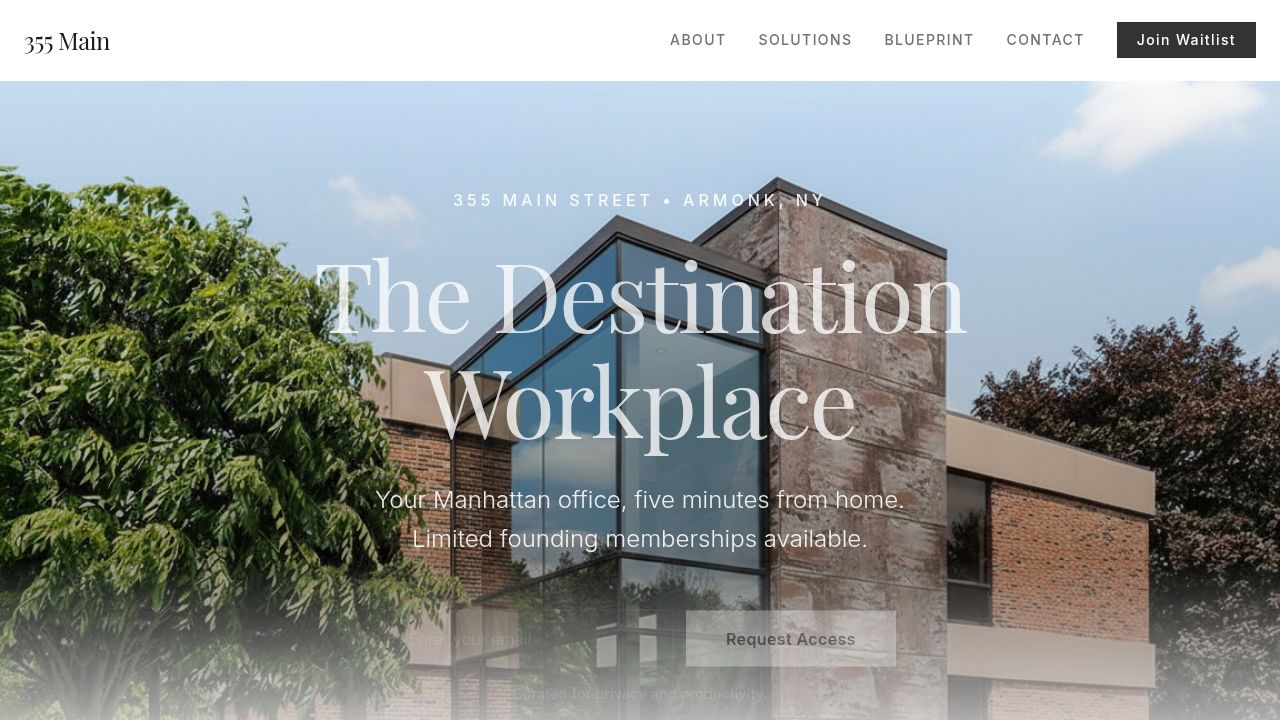
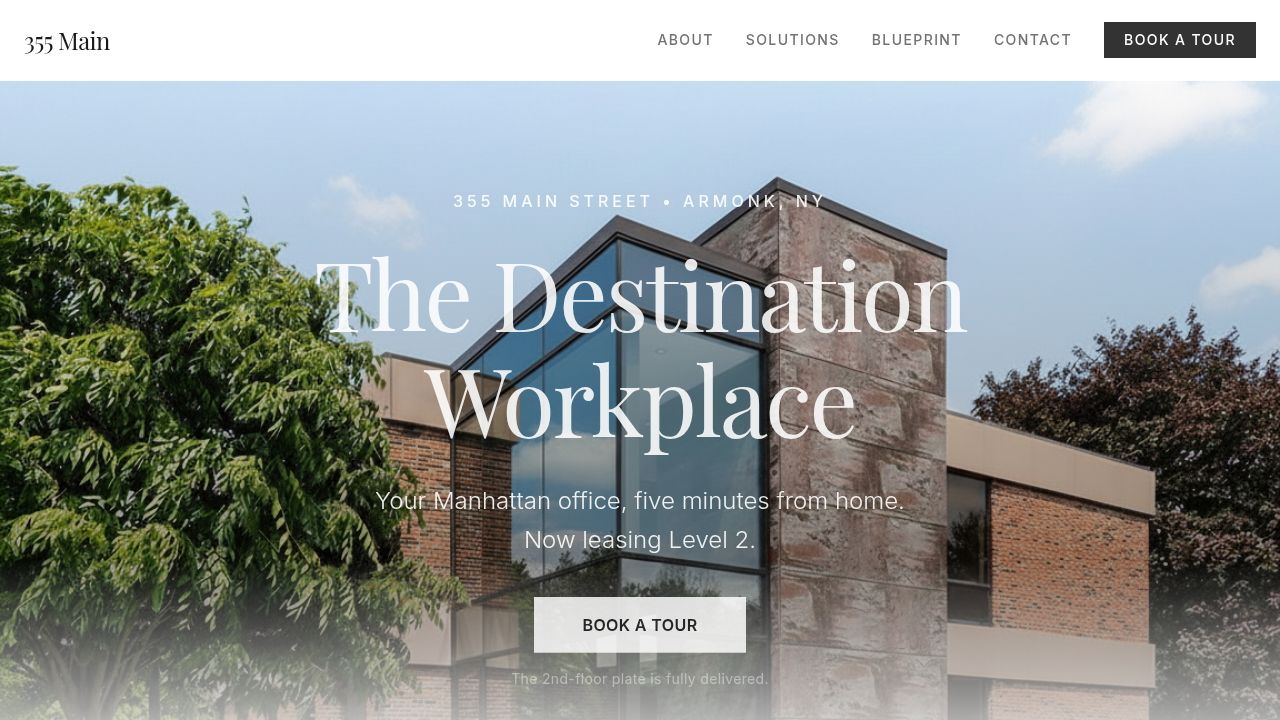
Update form submission to correctly send user and preference data
Modify the tour-confirmed page's submission handler to structure member and preferences data into nested objects as expected by the backend API.

Replit-Commit-Author: Agent
Replit-Commit-Session-Id: a01b8578-0d19-4f92-96b3-3c75e4bcfdba
Replit-Commit-Checkpoint-Type: intermediate_checkpoint
Replit-Commit-Event-Id: ea275b16-49dd-4d4d-92bb-d4d5c353ae86
Replit-Commit-Screenshot-Url: https://storage.googleapis.com/screenshot-production-us-central1/9f72cabb-9bf3-4c30-9f3f-5f475a08b80e/a01b8578-0d19-4f92-96b3-3c75e4bcfdba/lNDBwr0
Replit-Helium-Checkpoint-Created: true

diff --git a/client/src/pages/tour-confirmed.tsx b/client/src/pages/tour-confirmed.tsx
@@ -63,14 +63,18 @@ export default function TourConfirmed() {
         method: "POST",
         headers: { "Content-Type": "application/json" },
         body: JSON.stringify({
-          firstName,
-          lastName,
-          email,
-          company,
-          jobTitle,
-          teamSize,
-          preferences,
-          brandSource: "355main_tour",
+          member: {
+            firstName,
+            lastName,
+            email,
+            company,
+            jobRole: jobTitle,
+            teamSize,
+            brandSource: "355main_tour",
+          },
+          preferences: {
+            amenities: preferences,
+          },
           recaptchaToken
         }),
       });